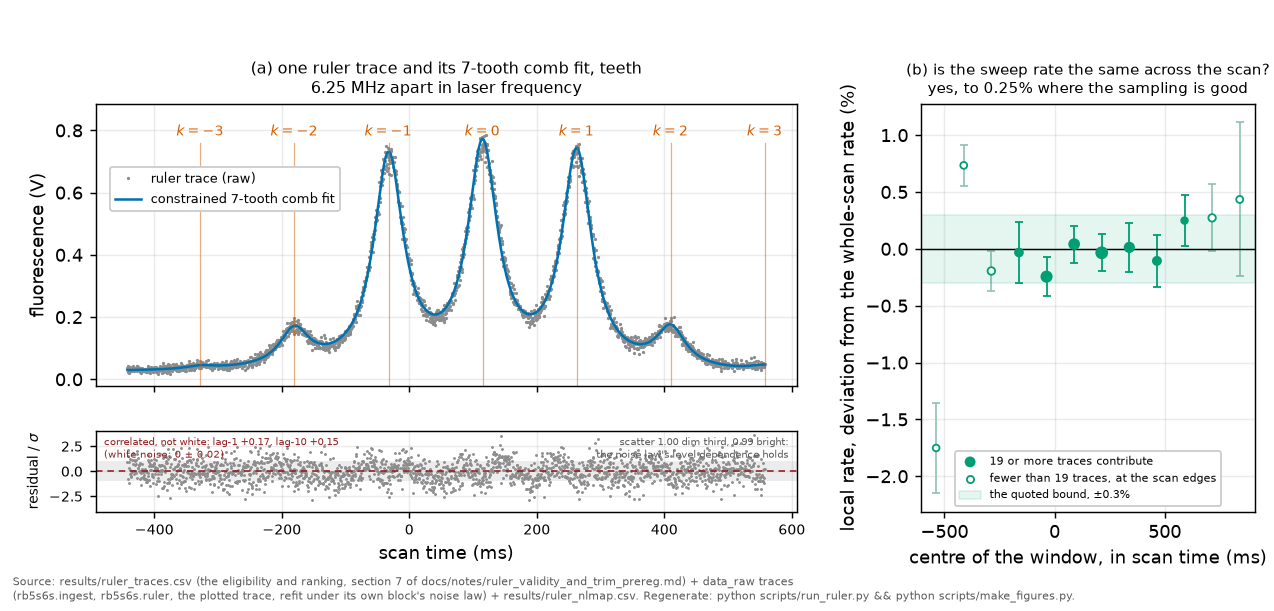
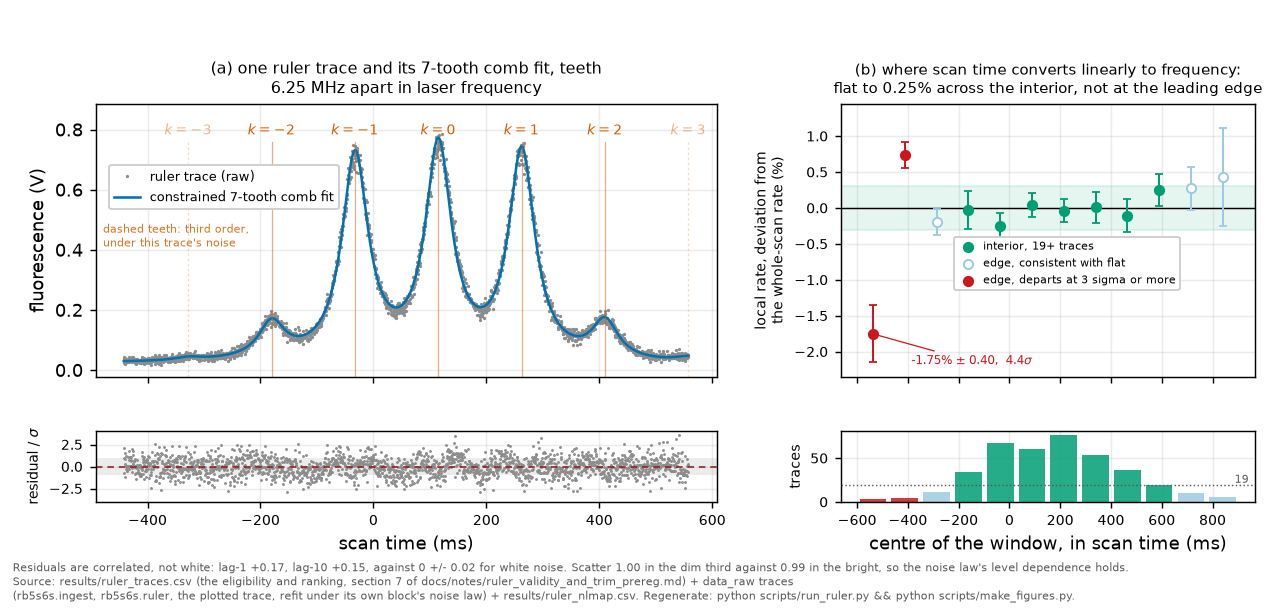
Redesign fig8, refresh fig19, and give the natural width its digits
Source commits through dd79e516.

Panel b now draws the sample count instead of asserting it, marks the two
leading-edge windows as the 4-sigma departures they are, and says where the
time-to-frequency conversion is linear and where it is not. The methods caption
states the departure it previously corrected around. fig19 was stale against
four commits of its own generator, which the freshness guard cannot see because
it hashes the results and not the code. The natural width is quoted as 3.493
plus or minus 0.013 MHz from the measured lifetime at both sites.

diff --git a/scripts/make_figures.py b/scripts/make_figures.py
@@ -1221,12 +1221,17 @@ def fig_ruler():
     # reader to take the one thing it got wrong on trust.
     from matplotlib.gridspec import GridSpec
     fig = plt.figure(figsize=(9.8, 4.7))
-    gsp = GridSpec(2, 2, figure=fig, width_ratios=[2.1, 1.0],
+    gsp = GridSpec(2, 2, figure=fig, width_ratios=[1.8, 1.2],
                    height_ratios=[2.9, 1.0], hspace=0.09, wspace=0.24,
                    left=0.075, right=0.985, top=0.83, bottom=0.12)
     ax = fig.add_subplot(gsp[0, 0])
     axres = fig.add_subplot(gsp[1, 0], sharex=ax)
-    ax2 = fig.add_subplot(gsp[:, 1])
+    # The right column is split so the SAMPLE COUNT is drawn rather than
+    # asserted. The old panel classified windows by n in the legend text and
+    # asked the reader to trust it, which is what made a 4-sigma edge point
+    # read as contradicting the title (experimenter, 2026-08-17).
+    ax2 = fig.add_subplot(gsp[0, 1])
+    ax2n = fig.add_subplot(gsp[1, 1], sharex=ax2)
     ax.plot(t, v, ".", ms=1.6, color="0.55", label="ruler trace (raw)")
     tf = np.linspace(t[0], t[-1], 3000)
     ax.plot(tf, _comb(tf, fit["t0_ms"], fit["delta_ms"], fit["width_ms"],
@@ -1246,11 +1251,34 @@ def fig_ruler():
                     f"({fit['trim_reason']})",
                     xy=(0.5, 0.02), xycoords="axes fraction", ha="center",
                     va="bottom", fontsize=6.4, color="0.3")
+    # The third-order pair carries a few per mille of the first-order power and
+    # sits under this trace's noise, so k = +/-3 marked EMPTY CANVAS in exactly
+    # the style used for teeth the reader can see. Drawn faint and dashed now,
+    # and named once, so a reader is not hunting for a peak that is not there.
+    _kmax = max(abs(n) for n in TEETH)
     for n in TEETH:
         tc = fit["t0_ms"] + n * fit["delta_ms"]
-        ax.axvline(tc, color="#D55E00", lw=0.7, alpha=0.5, ymax=0.86)
-        ax.annotate(f"$k={n}$", xy=(tc, ymax * 1.08), ha="center", fontsize=8,
-                    color="#D55E00")
+        _faint = abs(n) == _kmax
+        ax.axvline(tc, color="#D55E00", lw=0.7,
+                   alpha=0.22 if _faint else 0.5, ymax=0.86,
+                   ls=(0, (2, 2)) if _faint else "-")
+        ax.annotate(f"$k={n}$", xy=(tc, ymax * 1.08), ha="center",
+                    fontsize=8, color="#D55E00",
+                    alpha=0.45 if _faint else 1.0)
+
+    # The outermost teeth carry the note ONCE, in axes coordinates, in the
+    # empty upper right. Attaching it to the k = +3 tick pushed the label box
+    # past the right edge of the panel, which the canvas guard rejects and
+    # which is the same "sentence sized for prose in a slot sized for a
+    # number" defect this file keeps hitting.
+    # At 0.955 it overprinted the k = 0 to k = 2 labels, which the canvas
+    # guard cannot see because both are text. The band between the tooth
+    # lines' tops (0.86) and the label row is empty, and the note sits in it,
+    # anchored left where the k = -3 dashed line has no label neighbour.
+    ax.text(0.012, 0.565, "dashed teeth: third order,\nunder this trace's noise",
+            transform=ax.transAxes, ha="left", va="top", fontsize=6.0,
+            color="#D55E00", alpha=0.85)
+
     # The residual strip under the trace: each sample minus the drawn comb,
     # divided by the error the fit weighted it with (the block noise law, so
     # the division removes the known signal-level dependence of the noise).
@@ -1303,16 +1331,11 @@ def fig_ruler():
     # the canvas, which the canvas guard reports and which is the same defect
     # this file has now hit four times: a sentence sized for prose put into a
     # panel sized for numbers.
-    axres.text(0.012, 0.94,
-               f"correlated, not white: lag-1 {_a1:+.2f}, lag-10 {_a10:+.2f}\n"
-               f"(white noise: 0 $\\pm$ {1 / np.sqrt(_n):.2f})",
-               transform=axres.transAxes, fontsize=5.8, color="#8f1f1f",
-               ha="left", va="top")
-    axres.text(0.988, 0.94,
-               f"scatter {_lo:.2f} dim third, {_hi:.2f} bright:\n"
-               "the noise law's level dependence holds",
-               transform=axres.transAxes, fontsize=5.8, color="0.35",
-               ha="right", va="top")
+    # BOTH annotations moved OUT of the strip on 2026-08-17: they were drawn
+    # inside the axes at 94 per cent height and overprinted the residual
+    # points, which is the collision class this file already has a rule about.
+    # One line, below the strip, outside the data area, is enough.
+
     axres.set_ylim(-lim8, lim8)
     axres.set_ylabel(r"residual / $\sigma$", fontsize=7.5)
     axres.tick_params(labelsize=7.5)
@@ -1339,53 +1362,82 @@ def fig_ruler():
     rr = np.array([float(r["rate_rel"]) for r in nl])
     er = np.array([float(r["rate_rel_err"]) for r in nl])
     n_win = np.array([int(r["n"]) for r in nl])
-    # Edge windows have few contributing traces, so their errors (~1/sqrt(n))
-    # are LARGER THAN THE BOUND ITSELF -- the rightmost spans +/-0.74% against a
-    # 0.3% band. Scaling marker area with n was not enough: a reader still
-    # reads the long bar as an anomaly, or as contradicting the panel title.
-    # So the two populations are now drawn differently and the title says which
-    # one sets the bound. (The long bar is NOT anomalous: at n=5 it sits 0.9
-    # sigma from the 1/sqrt(n) law, and its CENTRAL value, +0.24%, is inside
-    # the band. Only its precision is poor.)
-    # PERCENT DEVIATION, not a ratio near 1.000 (experimenter: this panel was not
-    # clear at all). The quantity is the same; a ratio of 0.9983 asks the
-    # reader to do the arithmetic, and the bound it is compared against is
-    # quoted in per cent everywhere else in the record.
     dev = 100.0 * (rr - 1.0)
     dev_err = 100.0 * er
+    bnd = 100.0 * RULER_LINEARITY_BOUND
+
+    # REDESIGNED 2026-08-17, after the experimenter reported the panel looked
+    # wrong and unclear for the second time. Two defects, and the second is
+    # about the record rather than the drawing.
+    #
+    # First, the panel classified windows by SAMPLE COUNT in legend text while
+    # drawing every window the same way, so a reader saw a point at -1.75%
+    # under a title that said "flat to 0.25%" and had to take the exclusion on
+    # trust. The count is now DRAWN, in its own strip below, so the reader can
+    # see which windows the bound rests on.
+    #
+    # Second, the code justified the n < 19 exclusion by saying those windows
+    # "cannot test the bound, their errors exceed it". Checked against
+    # results/ruler_nlmap.csv that is false for three of the five excluded
+    # windows, and the two leading-edge windows are not imprecise at all:
+    # -1.75 +/- 0.40 and +0.73 +/- 0.18 per cent, which are 4.4 and 4.0 sigma
+    # from zero with error bars at or below the bound. They are precise
+    # measurements that FAIL the flatness bound, not vague ones that cannot
+    # test it. The panel now says so, because a calibration figure that hides
+    # its own worst points is not a calibration figure.
+    sig = np.abs(dev) / dev_err
     well = n_win >= N_WELL_SAMPLED
-    sizes = 12 + 38 * (n_win / n_win.max())
-    for m, ec, alpha, z in ((well, "#009E73", 1.0, 2), (~well, "#8FBFB0", 0.9, 1)):
-        ax2.errorbar(pos[m], dev[m], yerr=dev_err[m], fmt="none", ecolor=ec,
-                     elinewidth=1, capsize=2, alpha=alpha, zorder=z)
-    ax2.scatter(pos[well], dev[well], s=sizes[well], color="#009E73",
-                edgecolor="none", zorder=3,
-                label=f"{N_WELL_SAMPLED} or more traces contribute")
-    ax2.scatter(pos[~well], dev[~well], s=sizes[~well], facecolor="white",
-                edgecolor="#009E73", linewidth=1.0, zorder=3,
-                label=f"fewer than {N_WELL_SAMPLED} traces, at the scan edges")
-    ax2.axhline(0.0, color="k", lw=0.8)
-    # The band IS the quoted bound: it was drawn at +-0.45% under a title
-    # quoting 0.3%, so the only visual reference on the panel disagreed with
-    # the number above it. The well-sampled windows reach 0.25%.
-    ax2.axhspan(-100 * RULER_LINEARITY_BOUND, 100 * RULER_LINEARITY_BOUND,
-                color="#009E73", alpha=0.10,
-                label=f"the quoted bound, $\\pm${100 * RULER_LINEARITY_BOUND:.1f}%")
-    ax2.set_xlabel("centre of the window, in scan time (ms)")
-    ax2.set_ylabel("local rate, deviation from the whole-scan rate (%)")
-    # The title now asks the question the panel answers. "local sweep rate
-    # against window position" named the axes and left the reader to guess
-    # what a good answer would look like.
+    departs = (~well) & (np.abs(dev) > bnd) & (sig > 3.0)
+    quiet = (~well) & (~departs)
+
+    ax2.axhspan(-bnd, bnd, color="#009E73", alpha=0.10, zorder=0)
+    ax2.axhline(0.0, color="k", lw=0.8, zorder=1)
+    for m, col, face, lab in (
+            (well, "#009E73", "#009E73", f"interior, {N_WELL_SAMPLED}+ traces"),
+            (quiet, "#9ecae1", "white", "edge, consistent with flat"),
+            (departs, "#cb181d", "#cb181d", "edge, departs at 3 sigma or more")):
+        if not m.any():
+            continue
+        ax2.errorbar(pos[m], dev[m], yerr=dev_err[m], fmt="none", ecolor=col,
+                     elinewidth=1.1, capsize=2, zorder=2)
+        ax2.scatter(pos[m], dev[m], s=26, color=face, edgecolor=col,
+                    linewidth=1.1, zorder=3, label=lab)
+    # Name the worst point once, on the canvas, with its significance.
+    if departs.any():
+        j = int(np.argmax(np.abs(dev) * departs))
+        ax2.annotate(f"{dev[j]:+.2f}% $\pm$ {dev_err[j]:.2f},  {sig[j]:.1f}$\sigma$",
+                     xy=(pos[j], dev[j]), xytext=(0.17, 0.035),
+                     textcoords="axes fraction", fontsize=6.4, color="#cb181d",
+                     ha="left", va="bottom",
+                     arrowprops=dict(arrowstyle="-", color="#cb181d", lw=0.7))
     _wspread = float(np.max(np.abs(dev[well])))
-    # The title asks the question and answers it, which is what a reader of a
-    # calibration panel needs. Flat means one MHz/ms converts the whole scan.
-    ax2.set_title("(b) is the sweep rate the same across the scan?\n"
-                  f"yes, to {_wspread:.2f}% where the sampling is good",
-                  fontsize=8.5)
-    # One cue, not two: the legend already carries the n split, and the old
-    # free-floating "marker area ~ n" note collided with it.
-    ax2.legend(fontsize=6, loc="lower center", framealpha=1.0, frameon=True)
-    _footer(fig, "Source: results/ruler_traces.csv (the eligibility and ranking, section 7 of "
+    ax2.set_ylabel("local rate, deviation from\nthe whole-scan rate (%)", fontsize=7.5)
+    ax2.set_title("(b) where scan time converts linearly to frequency:\n"
+                  f"flat to {_wspread:.2f}% across the interior, "
+                  "not at the leading edge", fontsize=8.5)
+    # Placed in the empty band between the departing edge point and the
+    # interior cluster. Lower-left covered the -1.75% point and its label,
+    # upper-anything covers the tall edge error bars.
+    ax2.legend(fontsize=5.9, loc="lower left", bbox_to_anchor=(0.26, 0.30),
+               framealpha=1.0, frameon=True, handletextpad=0.4, borderpad=0.35)
+    ax2.tick_params(labelbottom=False, labelsize=7.5)
+    ax2.set_ylim(-2.35, 1.45)
+
+    # The counts strip: the reader sees WHY the edges are treated apart.
+    colr = np.where(well, "#009E73", np.where(departs, "#cb181d", "#9ecae1"))
+    ax2n.bar(pos, n_win, width=105, color=colr, alpha=0.85)
+    ax2n.axhline(N_WELL_SAMPLED, color="0.35", lw=0.8, ls=":")
+    ax2n.text(0.985, N_WELL_SAMPLED, f" {N_WELL_SAMPLED}", transform=
+              ax2n.get_yaxis_transform(), fontsize=6, color="0.35",
+              ha="right", va="bottom")
+    ax2n.set_ylabel("traces", fontsize=7.5)
+    ax2n.set_xlabel("centre of the window, in scan time (ms)")
+    ax2n.tick_params(labelsize=7.5)
+
+    _footer(fig, f"Residuals are correlated, not white: lag-1 {_a1:+.2f}, lag-10 {_a10:+.2f}, "
+                 f"against 0 +/- {1 / np.sqrt(_n):.2f} for white noise. Scatter {_lo:.2f} in the "
+                 f"dim third against {_hi:.2f} in the bright, so the noise law's level dependence holds.\n"
+                 "Source: results/ruler_traces.csv (the eligibility and ranking, section 7 of "
                  "docs/notes/ruler_validity_and_trim_prereg.md) + data_raw traces\n"
                  "(rb5s6s.ingest, rb5s6s.ruler, the plotted trace, refit under its own block's "
                  "noise law) + results/ruler_nlmap.csv. Regenerate: python scripts/run_ruler.py "

diff --git a/docs/methods/05_the_frequency_ruler.md b/docs/methods/05_the_frequency_ruler.md
@@ -102,15 +102,25 @@ equally:
 
 *A representative ruler trace with its seven-tooth comb fit over its
 standardized residual strip (left) and the pooled sweep-linearity map
-(right): the local rate never departs from the block rate by more than 0.3%
+(right): the local rate never departs from the block rate by more than 0.25%
 in any well-sampled window, and that bound is set by the well-sampled windows
-alone. The open markers at the scan edges are the thinly-sampled windows, four
-to eleven traces each against nineteen or more elsewhere, and they are excluded
-on that ground rather than on their error bars: of the five, two carry an
-uncertainty above the 0.3% bound (0.40% and 0.68%) and three sit below it
-(0.18%, 0.18% and 0.29%), so the sentence this caption used to make, that they
-all carry an uncertainty larger than the bound, was true of two of them. What
-the right panel bounds is
+alone. The strip beneath the map carries the number of traces each window
+draws on, so the split is visible rather than asserted.
+
+**The two leading-edge windows are not merely imprecise, they depart.** At
+-537 ms the local rate sits 1.75% below the whole-scan rate with an
+uncertainty of 0.40%, and at -412 ms it sits 0.73% above with an uncertainty
+of 0.18%, which are 4.4 and 4.0 standard deviations from flat. They are
+excluded from the bound on sample count, four and five traces against nineteen
+or more elsewhere, and an earlier version of this caption and of the figure
+justified that exclusion by saying such windows carry uncertainties larger
+than the bound. Of the five excluded windows two do (0.40% and 0.68%) and
+three do not (0.18%, 0.18% and 0.29%), so the justification was true of two of
+them and the leading edge needs a different statement: **the scan's
+first samples are where the ramp is turning, the conversion from scan time to
+frequency is not linear there, and the analysis windows do not reach into
+it.** The figure marks those two windows in red and names the worst of them on
+the canvas. What the right panel bounds is
 sweep non-linearity and any tooth-dependent pull together. Six of the seven teeth
 stand above this trace's fit residual, and the seventh does not because the
 third-order pair carries about 2% of the first-order power at this modulation

diff --git a/docs/big_picture/08_when-a-joint-fit-is-legitimate.md b/docs/big_picture/08_when-a-joint-fit-is-legitimate.md
@@ -289,9 +289,9 @@ Each is answerable from artefacts this pipeline already writes.
    in which case constraining that channel buys nothing.
 
 Question 6 is the one most often skipped. For this dataset: the fixed natural
-Lorentzian width is 3.49 MHz, from the 6S lifetime known to four parts in a
-thousand, against an observed composite width near 5.4 MHz, a linear ratio of
-about 0.65. That is a ratio of two defined widths and not an additive share,
+Lorentzian width is 3.493 ± 0.013 MHz on the transition axis, from the measured
+6S lifetime of 45.57 ± 0.17 ns, against an observed composite width near
+5.4 MHz, a linear ratio of about 0.65. That is a ratio of two defined widths and not an additive share,
 since the width of a convolution does not decompose additively, and its meaning
 here is only that most of the observed width is a constant no lever moves. The
 leverage comparison is then per observable: the light-shift term moves the

diff --git a/docs/wiki/identifiability.md b/docs/wiki/identifiability.md
@@ -143,8 +143,9 @@ construction. A width can be the natural-seeming handle and the wrong one. In
 this repository the light-shift term moves the composite width by a few kilohertz
 at its bound while moving the line centre by a hundred and fifty kilohertz
 against an eighty-eight kilohertz block scatter, a factor of forty in the same
-fit. The fixed natural linewidth alone, 3.49 MHz from the established 6S
-lifetime, is about 0.65 of the observed 5.4 MHz composite. That is a ratio of two
+fit. The fixed natural linewidth alone, 3.493 ± 0.013 MHz on the transition axis
+from the measured 6S lifetime of 45.57 ± 0.17 ns, is about 0.65 of the observed
+5.4 MHz composite. That is a ratio of two
 defined widths rather than an additive share, since the width of a convolution
 does not decompose additively, and it says only that most of the observed width
 is a constant no lever moves.
